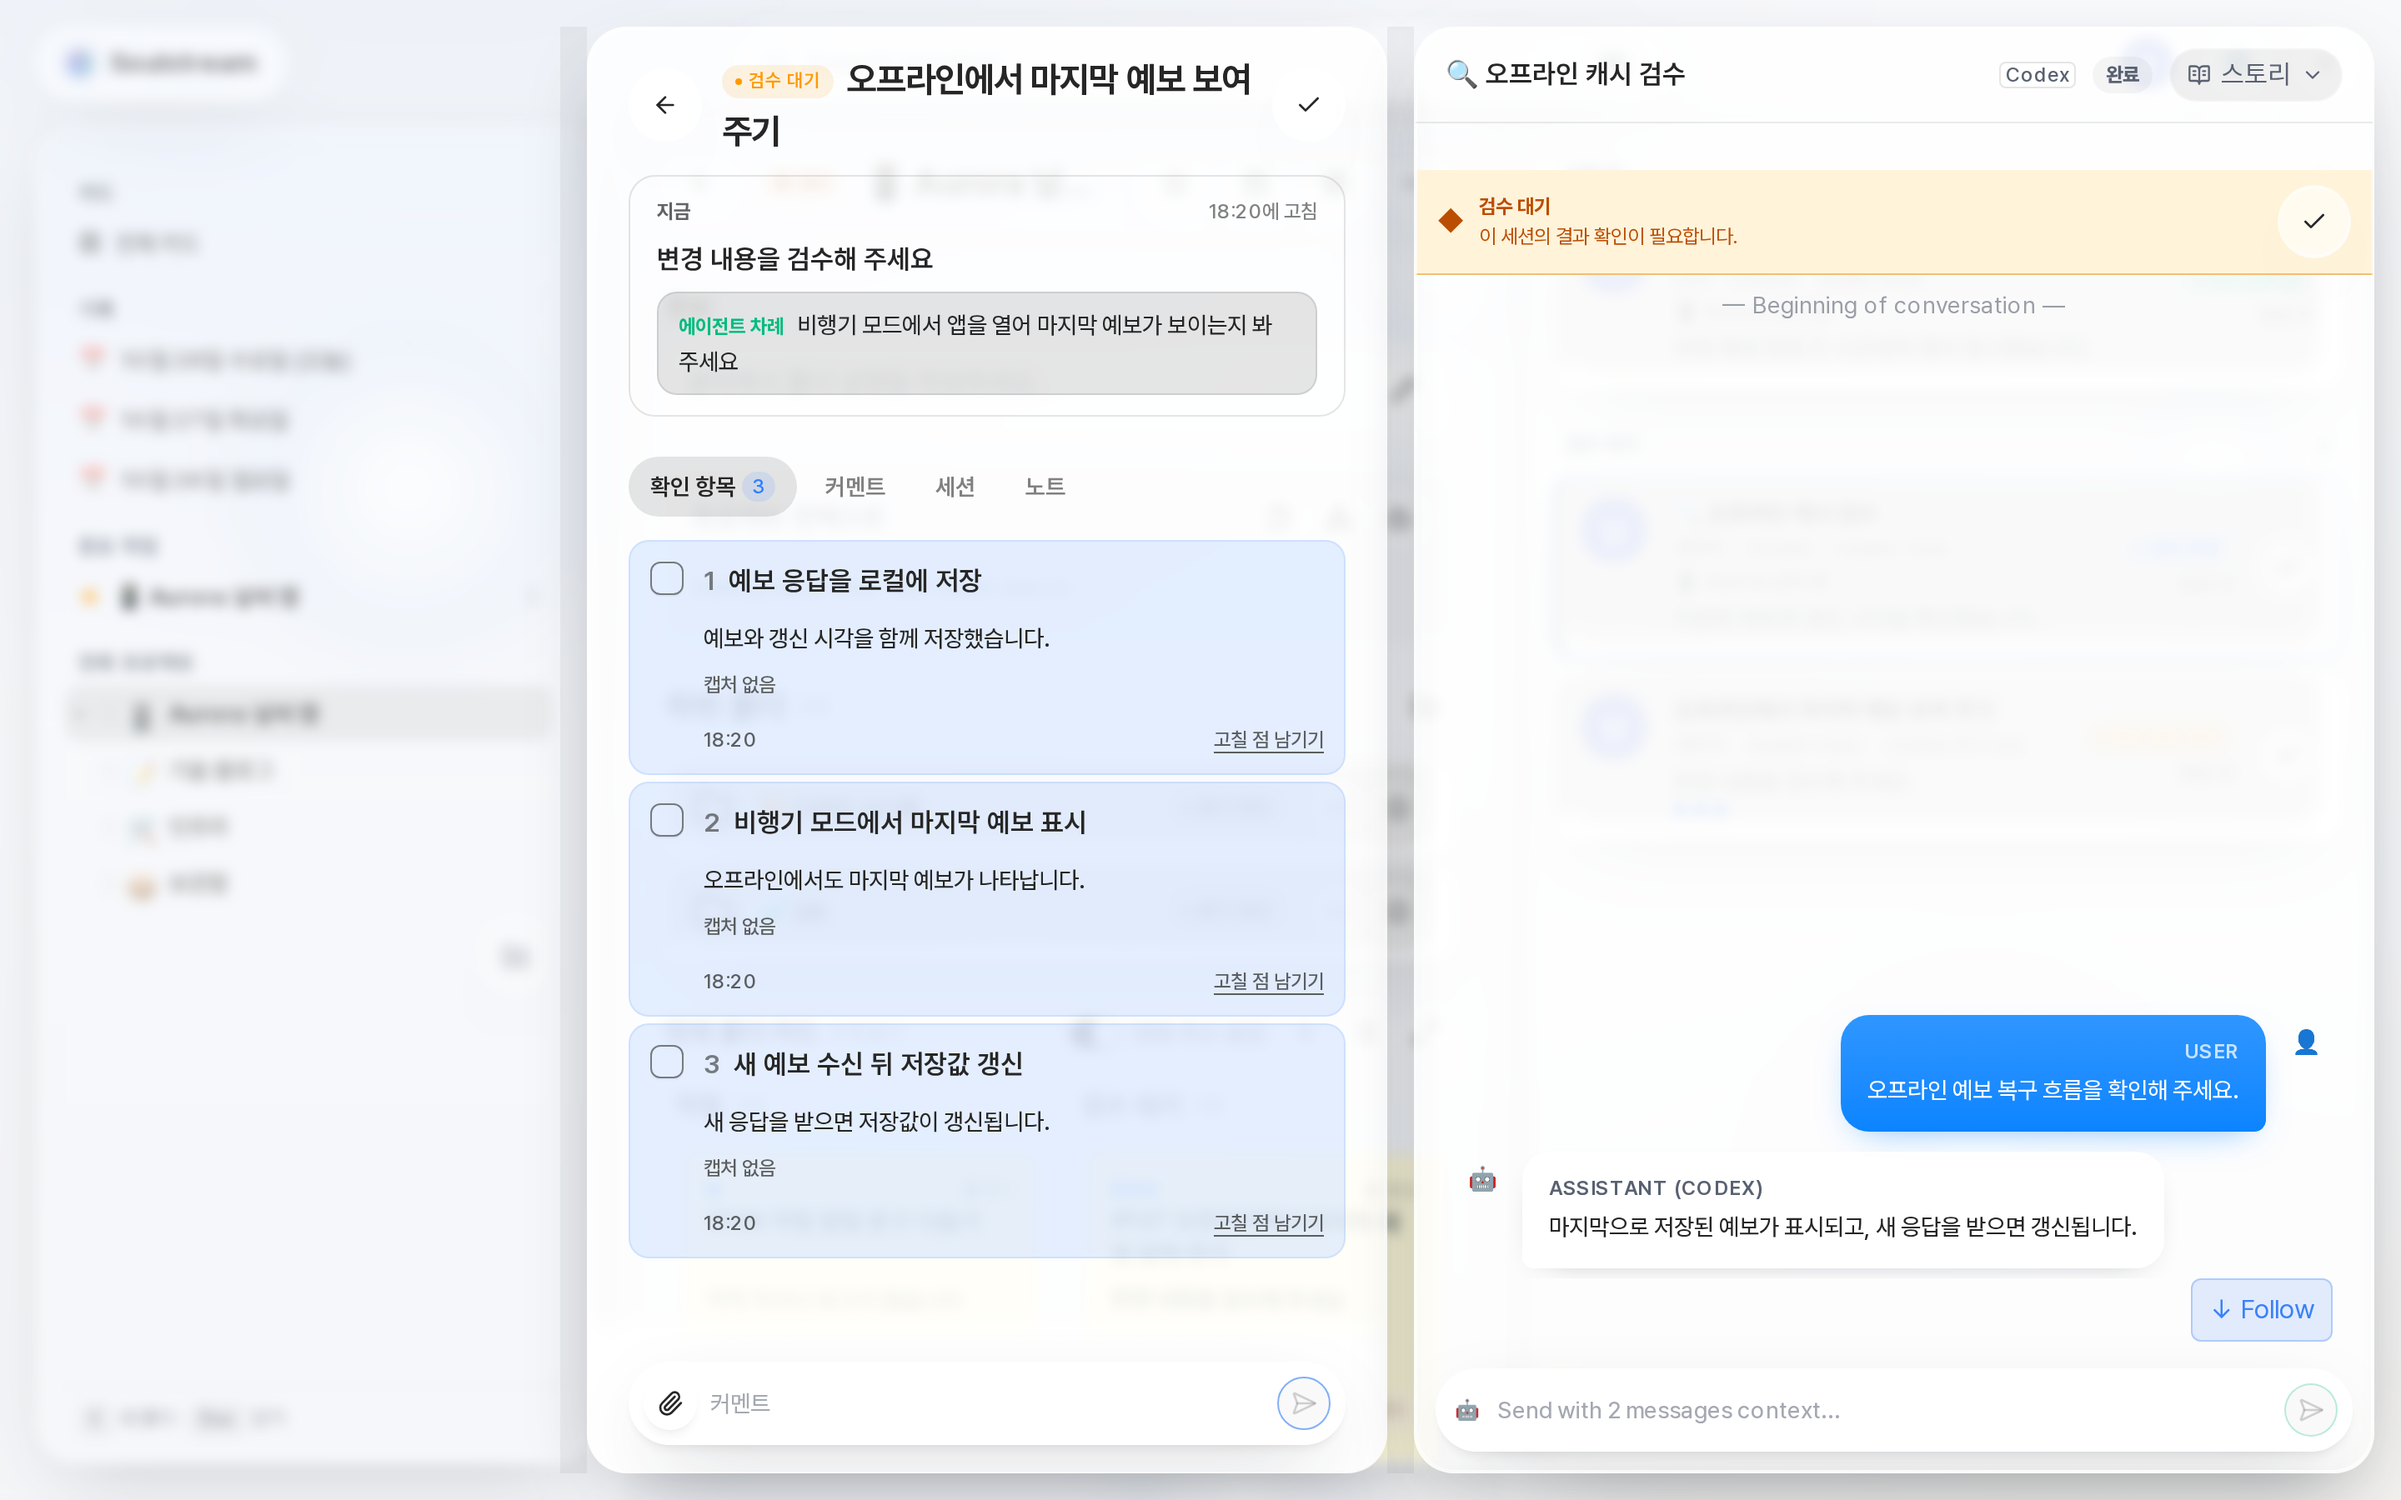
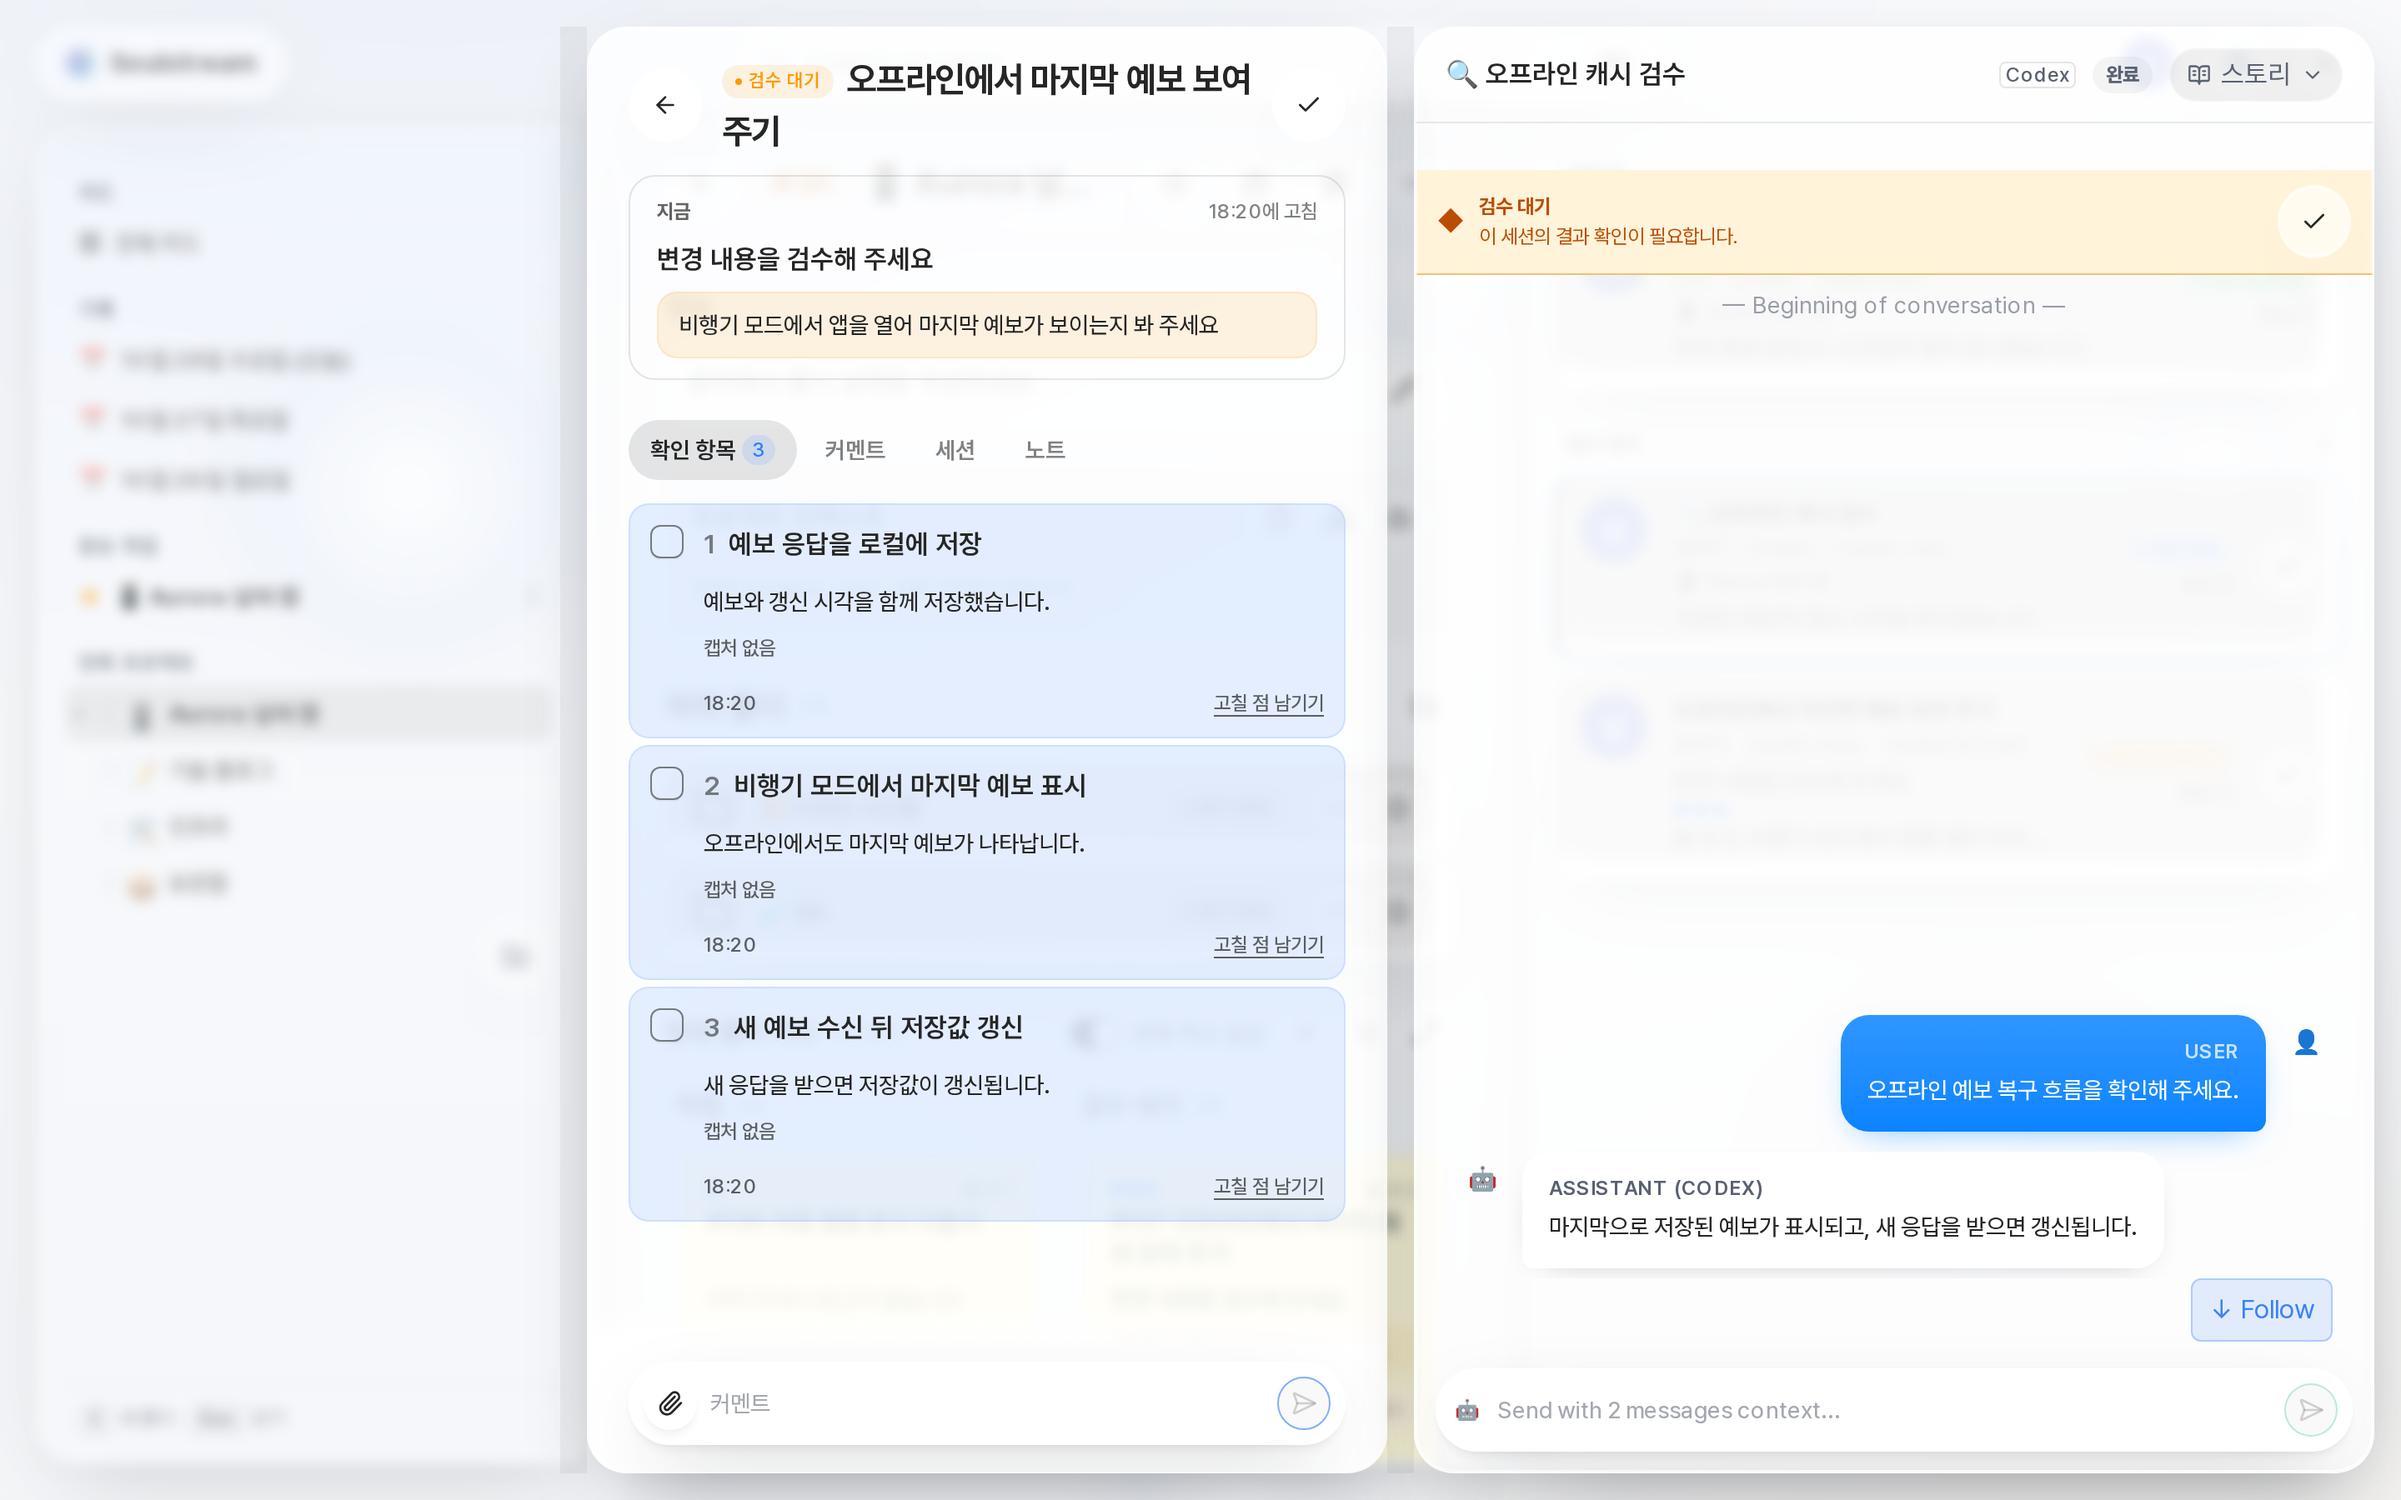
docs: align demo capture with dashboard scope and user turn

Changed region(s): [[0.25, 0.1867, 0.5625, 0.84]]

diff --git a/unified-dashboard/e2e/readme-demo/readme-demo.capture.ts b/unified-dashboard/e2e/readme-demo/readme-demo.capture.ts
@@ -112,21 +112,20 @@ async function capturePersistentSession(browser: Browser) {
   }
 }
 
-test("대시보드에 폴더, 카드와 실행 중 채팅을 함께 캡처한다", async ({ page }) => {
+test("대시보드에 폴더 트리와 다섯 상태의 카드를 캡처한다", async ({ page }) => {
   const { pageErrors } = await prepare(page, "dashboard", `/?folder=${readmeDemoIds.folderId}`);
-  const runningRow = page.getByTestId(`v3-session-row-${readmeDemoIds.sessionIds.running}`);
-  await expect(runningRow).toBeVisible();
-  await runningRow.locator(".v3-run-open").click();
-  await expect(page.getByRole("region", { name: "세션 채팅" })).toBeVisible();
-  // An overlay blurs the folder tree: it cannot stand in for the requested main dashboard.
-  await expect(page.locator(".v3-workspace-scrim"), "폴더 트리를 읽을 수 있는 기본 화면이어야 합니다").toHaveCount(0);
   const cards = page.getByTestId("v3-planner-scroll").getByTestId("v3-folder-cards-section");
+  await page.getByRole("button", { name: "📱 Aurora 날씨 앱 펼치기", exact: true }).click();
+  await cards.getByRole("button", { name: "일반 보기", exact: true }).click();
+  await cards.getByRole("switch", { name: "완료·취소 숨김" }).click();
+  await expect(cards.locator(".v3-postit-card")).toHaveCount(5);
   await expect(cards).toContainText("위젯에 시간대별 강수 확률 넣기");
   await expect(cards).toContainText("오프라인에서 마지막 예보 보여 주기");
-  await expect(page.locator(".v3-chat-pane")).toContainText("위젯 폭에 맞춰 두 시간대씩 묶어 표시했습니다.");
-  await cards.scrollIntoViewIfNeeded();
-  await expect(cards.locator(`[data-card-id="${readmeDemoIds.cardIds.running}"]`)).toBeInViewport();
-  await expect(cards.locator(`[data-card-id="${readmeDemoIds.cardIds.review}"]`)).toBeInViewport();
+  await page.getByRole("button", { name: "카드 섹션으로 이동", exact: true }).click();
+  await page.waitForTimeout(700);
+  for (const id of Object.values(readmeDemoIds.cardIds)) {
+    await expect(cards.locator(`[data-card-id="${id}"] .v3-postit-title`)).toBeInViewport();
+  }
   await expect(page.getByText("📱 Aurora 날씨 앱", { exact: true }).first()).toBeVisible();
   await expectSettled(page);
   await mkdir(screenshots, { recursive: true });
@@ -141,6 +140,7 @@ test("검수 카드 상세의 확인 항목과 결과를 캡처한다", async ({
   await reviewCard.locator(".v3-postit-open").click();
   await expect(page.getByTestId("card-detail")).toBeVisible();
   await expect(page.getByTestId("card-now-panel")).toContainText("비행기 모드에서 앱을 열어 마지막 예보가 보이는지 봐 주세요");
+  await expect(page.getByTestId("card-now-panel").getByRole("group", { name: "내 차례", exact: true })).toBeVisible();
   await expect(page.getByText("예보와 갱신 시각을 함께 저장했습니다.", { exact: true })).toBeVisible();
   await expect(page.getByText("오프라인에서도 마지막 예보가 나타납니다.", { exact: true })).toBeVisible();
   await expect(page.getByText("새 응답을 받으면 저장값이 갱신됩니다.", { exact: true })).toBeVisible();

diff --git a/unified-dashboard/e2e/readme-demo/demo-fixtures.ts b/unified-dashboard/e2e/readme-demo/demo-fixtures.ts
@@ -79,7 +79,7 @@ const cards: CardRow[] = [
     id: cardIds.review, number: 127, title: "오프라인에서 마지막 예보 보여 주기", status: "review",
     request: "네트워크가 끊겨도 마지막으로 받은 예보를 읽을 수 있게 해 주세요.",
     items: [checkItem(1, "예보 응답을 로컬에 저장", "done", "예보와 갱신 시각을 함께 저장했습니다."), checkItem(2, "비행기 모드에서 마지막 예보 표시", "done", "오프라인에서도 마지막 예보가 나타납니다."), checkItem(3, "새 예보 수신 뒤 저장값 갱신", "done", "새 응답을 받으면 저장값이 갱신됩니다.")],
-    now: { text: "변경 내용을 검수해 주세요", turn: "agent", ask: "비행기 모드에서 앱을 열어 마지막 예보가 보이는지 봐 주세요", updatedAt, sessionId: sessionIds.review },
+    now: { text: "변경 내용을 검수해 주세요", turn: "user", ask: "비행기 모드에서 앱을 열어 마지막 예보가 보이는지 봐 주세요", updatedAt, sessionId: sessionIds.review },
   }),
   card({
     id: cardIds.question, number: 126, title: "아침 알림 문구 다듬기", status: "blocked",
@@ -309,7 +309,8 @@ export async function installReadmeDemoRoutes(page: Page, diagnostics: DemoFixtu
     if (path.startsWith("/api/cards") && method === "GET") {
       if (path === "/api/cards") {
         const selected = url.searchParams.get("folderId");
-        return json({ cards: cards.filter((entry) => !selected || entry.folderId === selected) });
+        const status = url.searchParams.get("status");
+        return json({ cards: cards.filter((entry) => (!selected || entry.folderId === selected) && (!status || entry.status === status)), nextCursor: null });
       }
       const id = path.split("/")[3];
       const selectedCard = cards.find((entry) => entry.id === id);
